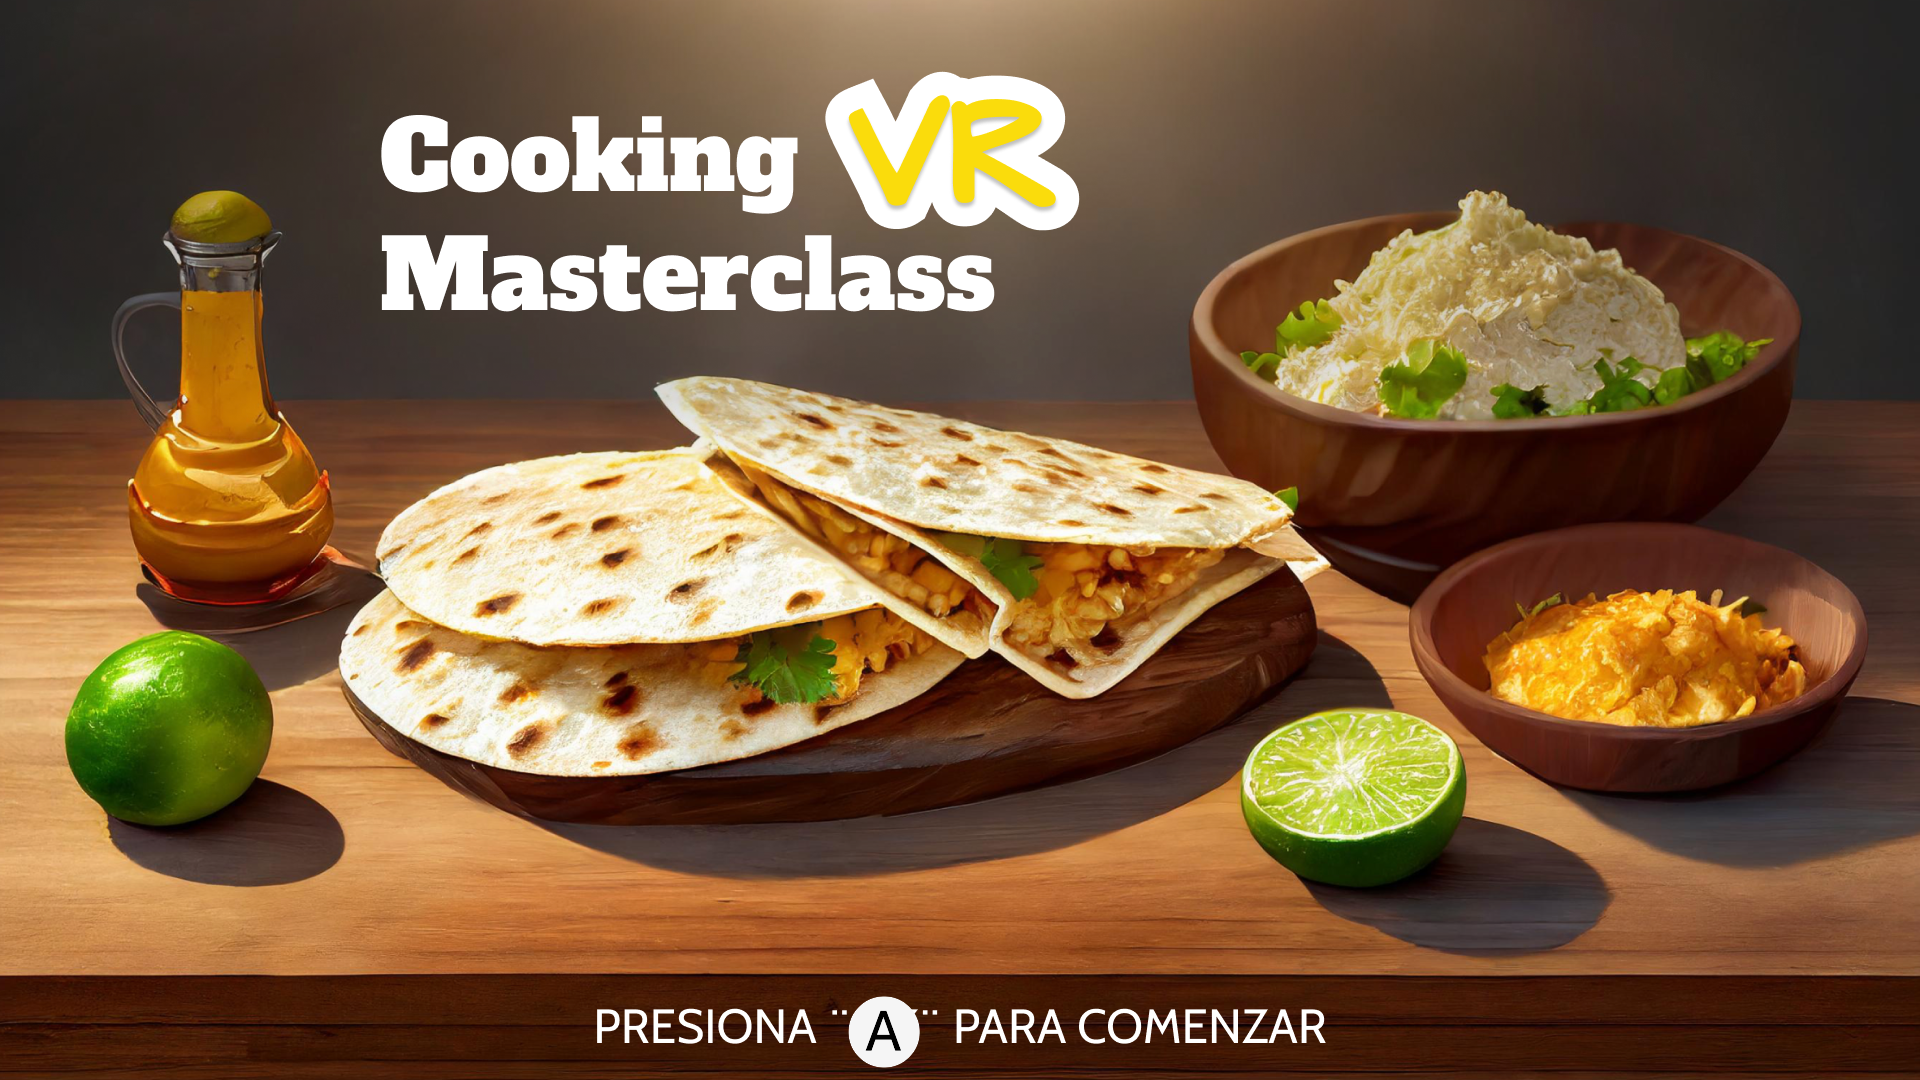
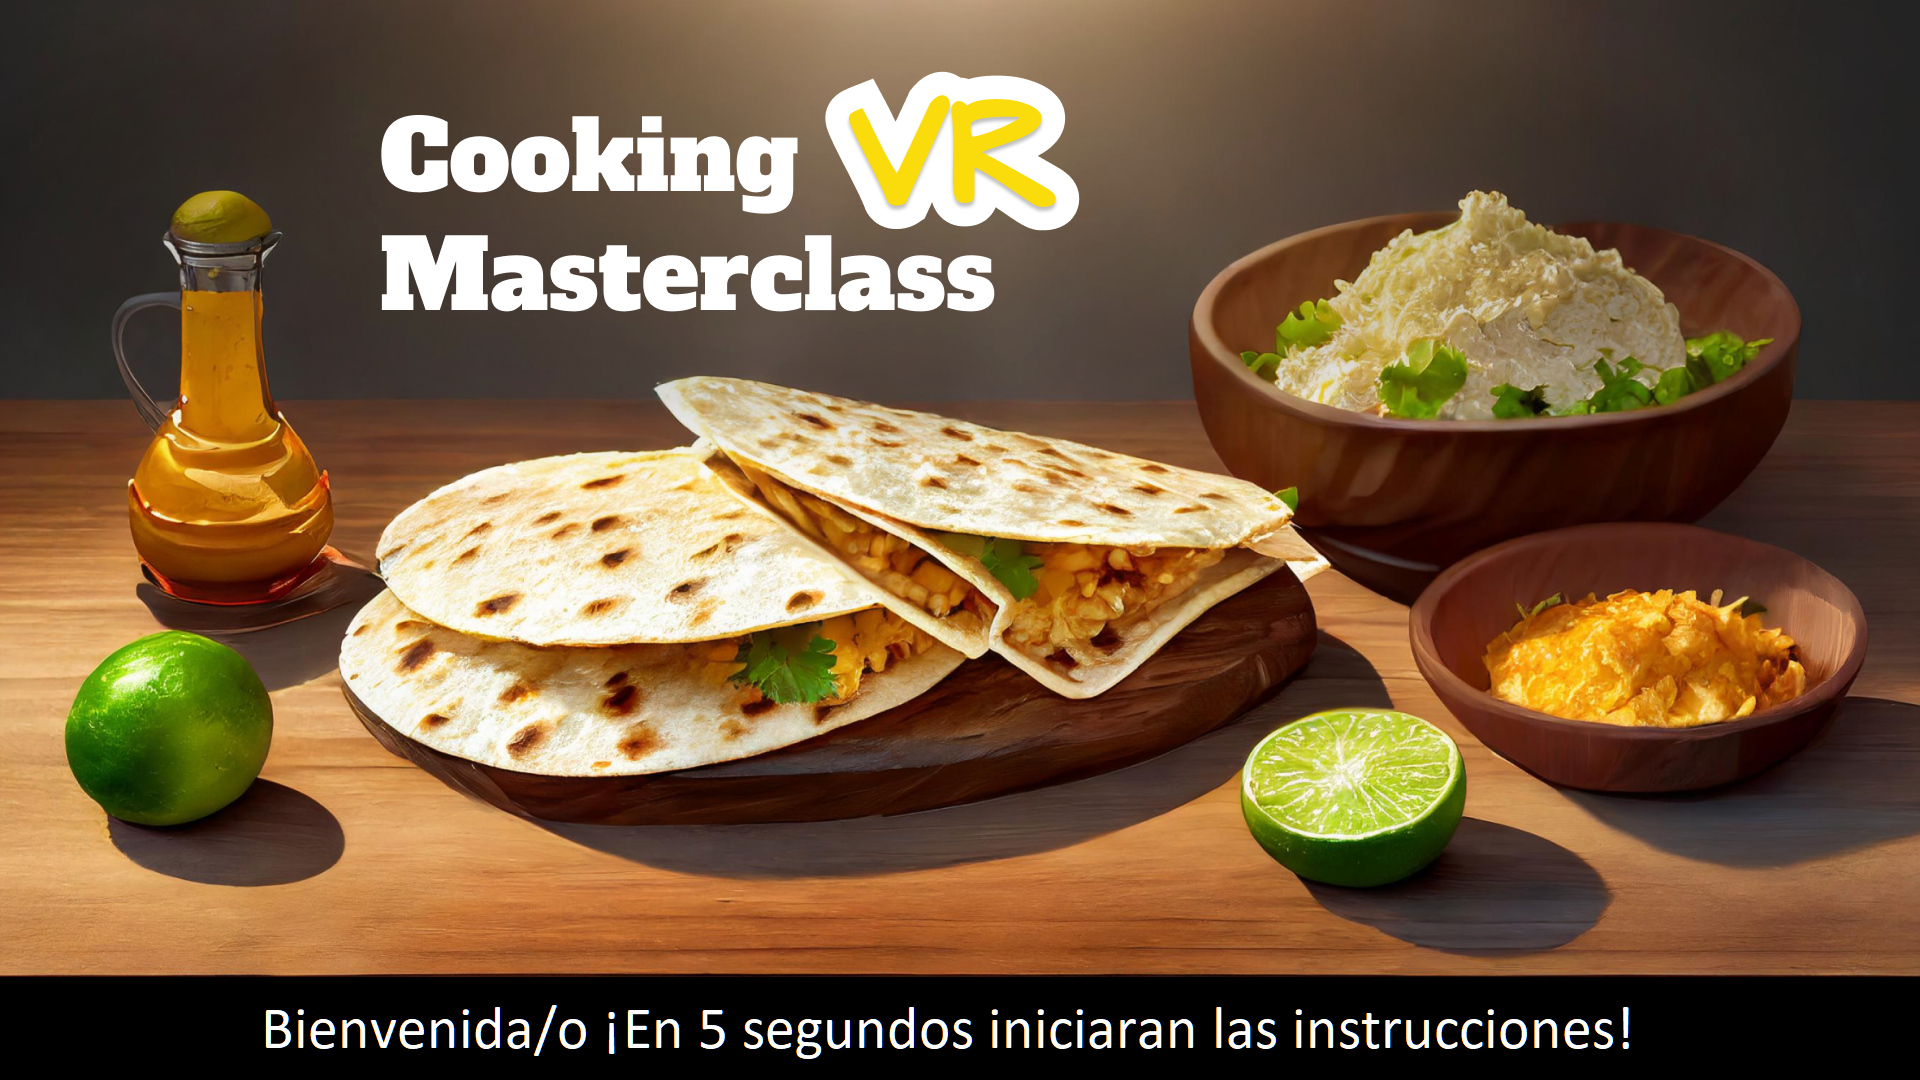
Commit casi final. PROBAR

Changed region(s): [[0.0, 0.8861, 1.0, 1.0]]

diff --git a/Assets/PantallaInstrucciones.cs b/Assets/PantallaInstrucciones.cs
@@ -1,9 +1,8 @@
 using UnityEngine;
-using System.Collections.Generic;
+using System.Collections;
 
 public class PantallaInstrucciones : MonoBehaviour
 {
-    // Renderer de la pantalla
     private MeshRenderer pantallaRenderer;
 
     [System.Serializable]
@@ -13,19 +12,20 @@ public class PantallaInstrucciones : MonoBehaviour
         public string descripcion;
     }
 
-    // Materiales para diferentes estados/instrucciones
     public InstruccionMaterial instruccionInicial;
+    public InstruccionMaterial instruccionInstrumentos;
     public InstruccionMaterial instruccionAgregarFrijoles;
     public InstruccionMaterial instruccionAgregarQueso;
     public InstruccionMaterial instruccionAgregarPollo;
     public InstruccionMaterial instruccionDoblar;
     public InstruccionMaterial instruccionColocarEnPlato;
     public InstruccionMaterial quesadillaCompleta;
+    public InstruccionMaterial instruccionFinal; // Nueva instrucción final
 
-    // Referencias a los objetos que necesitamos monitorear
     public QuesadillaTransformer2 quesadillaTransformer;
     private bool mostrandoInstruccionDoblar = false;
     private bool instruccionPlatoMostrada = false;
+    private bool mostrarSiguienteInstruccion = false;
 
     private void Start()
     {
@@ -36,15 +36,22 @@ public class PantallaInstrucciones : MonoBehaviour
             return;
         }
 
-        // Mostrar instrucción inicial
+        StartCoroutine(MostrarInstruccionInicial());
+    }
+
+    private IEnumerator MostrarInstruccionInicial()
+    {
         MostrarInstruccion(instruccionInicial.material);
+        yield return new WaitForSeconds(5f);
+        MostrarInstruccion(instruccionInstrumentos.material);
+        yield return new WaitForSeconds(10f);
+        mostrarSiguienteInstruccion = true;
     }
 
     private void Update()
     {
-        if (quesadillaTransformer == null) return;
+        if (!mostrarSiguienteInstruccion || quesadillaTransformer == null) return;
 
-        // Verificar el estado actual de la quesadilla usando los GameObjects activos
         bool tieneFrijoles = EstaActivoCualquierModelo(new GameObject[] {
             quesadillaTransformer.quesadillaFrijoles,
             quesadillaTransformer.quesadillaFrijolesQueso,
@@ -89,7 +96,6 @@ public class PantallaInstrucciones : MonoBehaviour
             quesadillaTransformer.quesadillaCompletaDoblada
         });
 
-        // Lógica para mostrar las instrucciones en el nuevo orden
         if (!tieneFrijoles && !tieneQueso && !tienePollo && !estaDoblada)
         {
             MostrarInstruccion(instruccionAgregarFrijoles.material);
@@ -117,6 +123,12 @@ public class PantallaInstrucciones : MonoBehaviour
         else if (tieneFrijoles && tieneQueso && tienePollo && estaDoblada && instruccionPlatoMostrada)
         {
             MostrarInstruccion(quesadillaCompleta.material);
+            instruccionPlatoMostrada = true;
+        }
+        else if (instruccionPlatoMostrada) // Lógica para mostrar la instrucción final
+        {
+            MostrarInstruccion(instruccionFinal.material);
+            mostrarSiguienteInstruccion = false; // Detener el Update
         }
     }
 
@@ -140,11 +152,13 @@ public class PantallaInstrucciones : MonoBehaviour
         }
     }
 
-    // Método público para reiniciar el estado de la pantalla
     public void ReiniciarPantalla()
     {
         mostrandoInstruccionDoblar = false;
         instruccionPlatoMostrada = false;
-        MostrarInstruccion(instruccionInicial.material);
+        mostrarSiguienteInstruccion = false;
+        StartCoroutine(MostrarInstruccionInicial());
     }
 }
+
+
